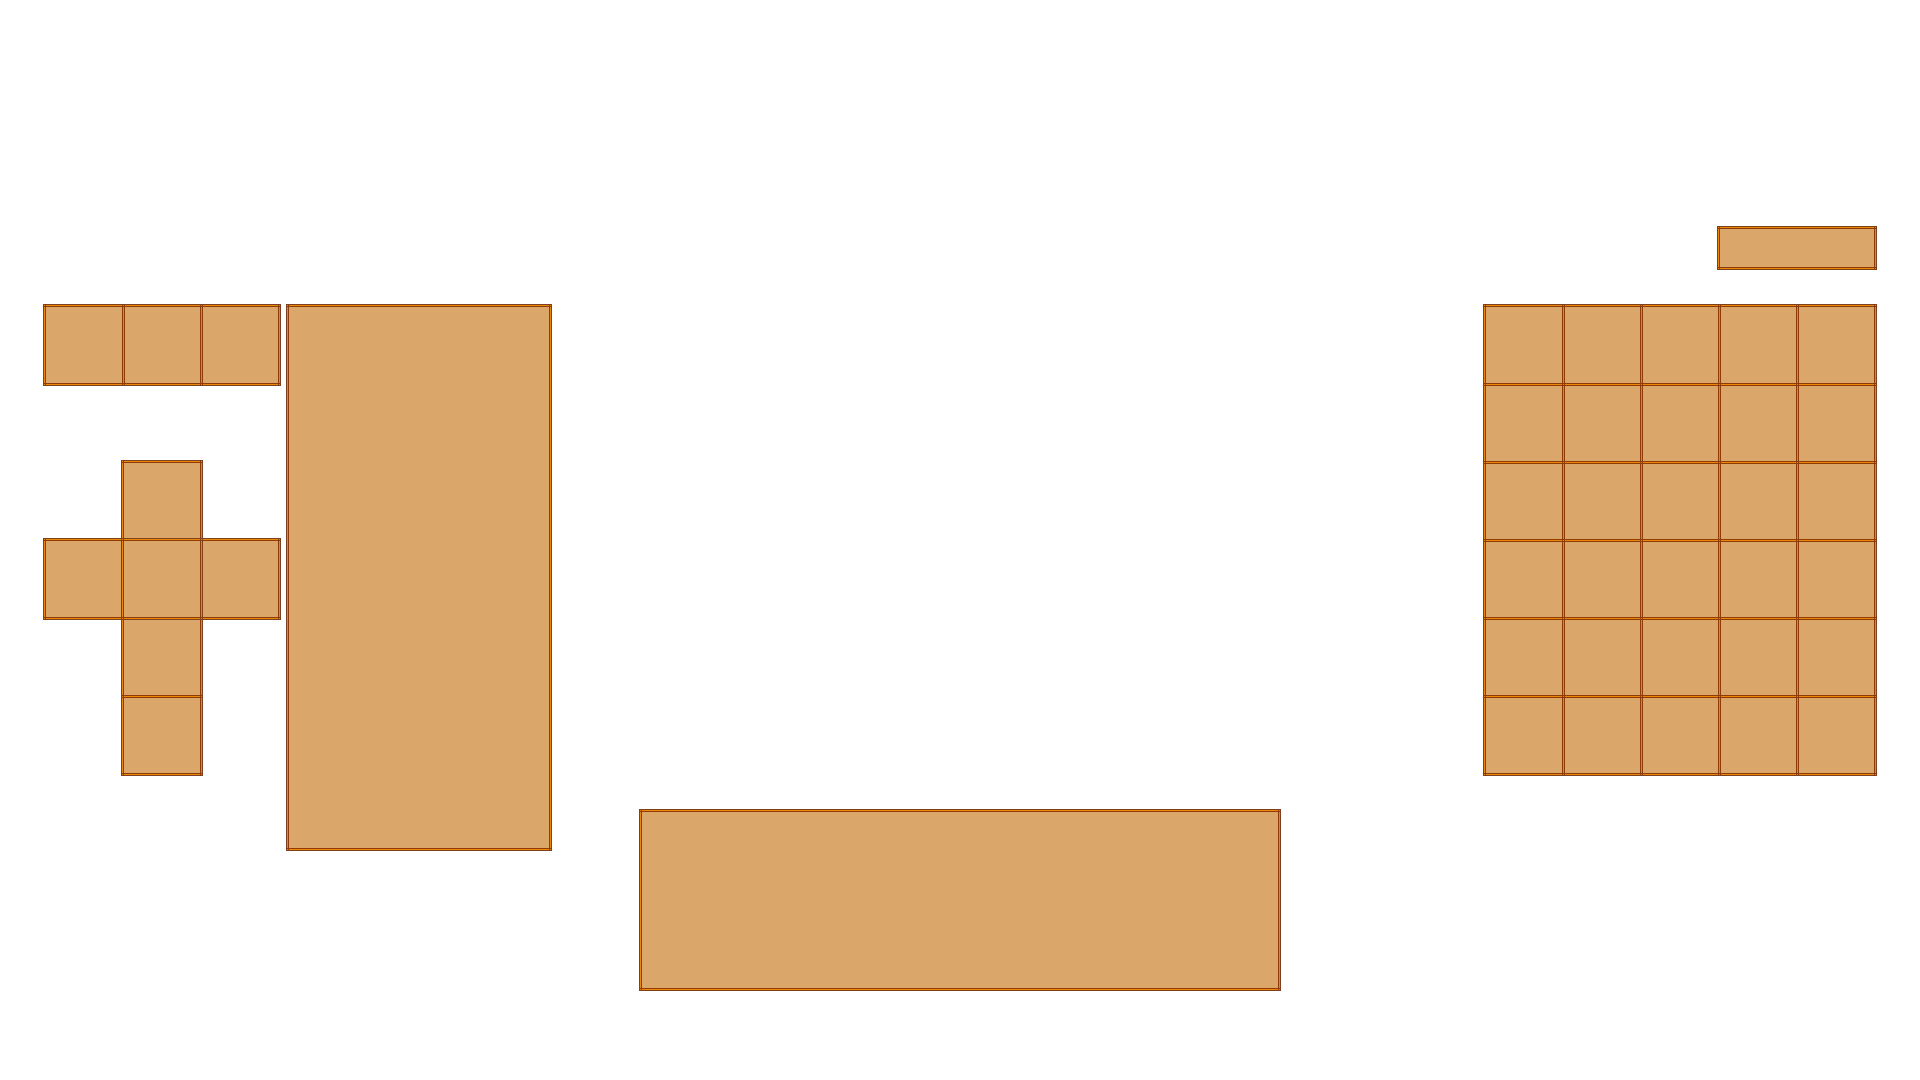
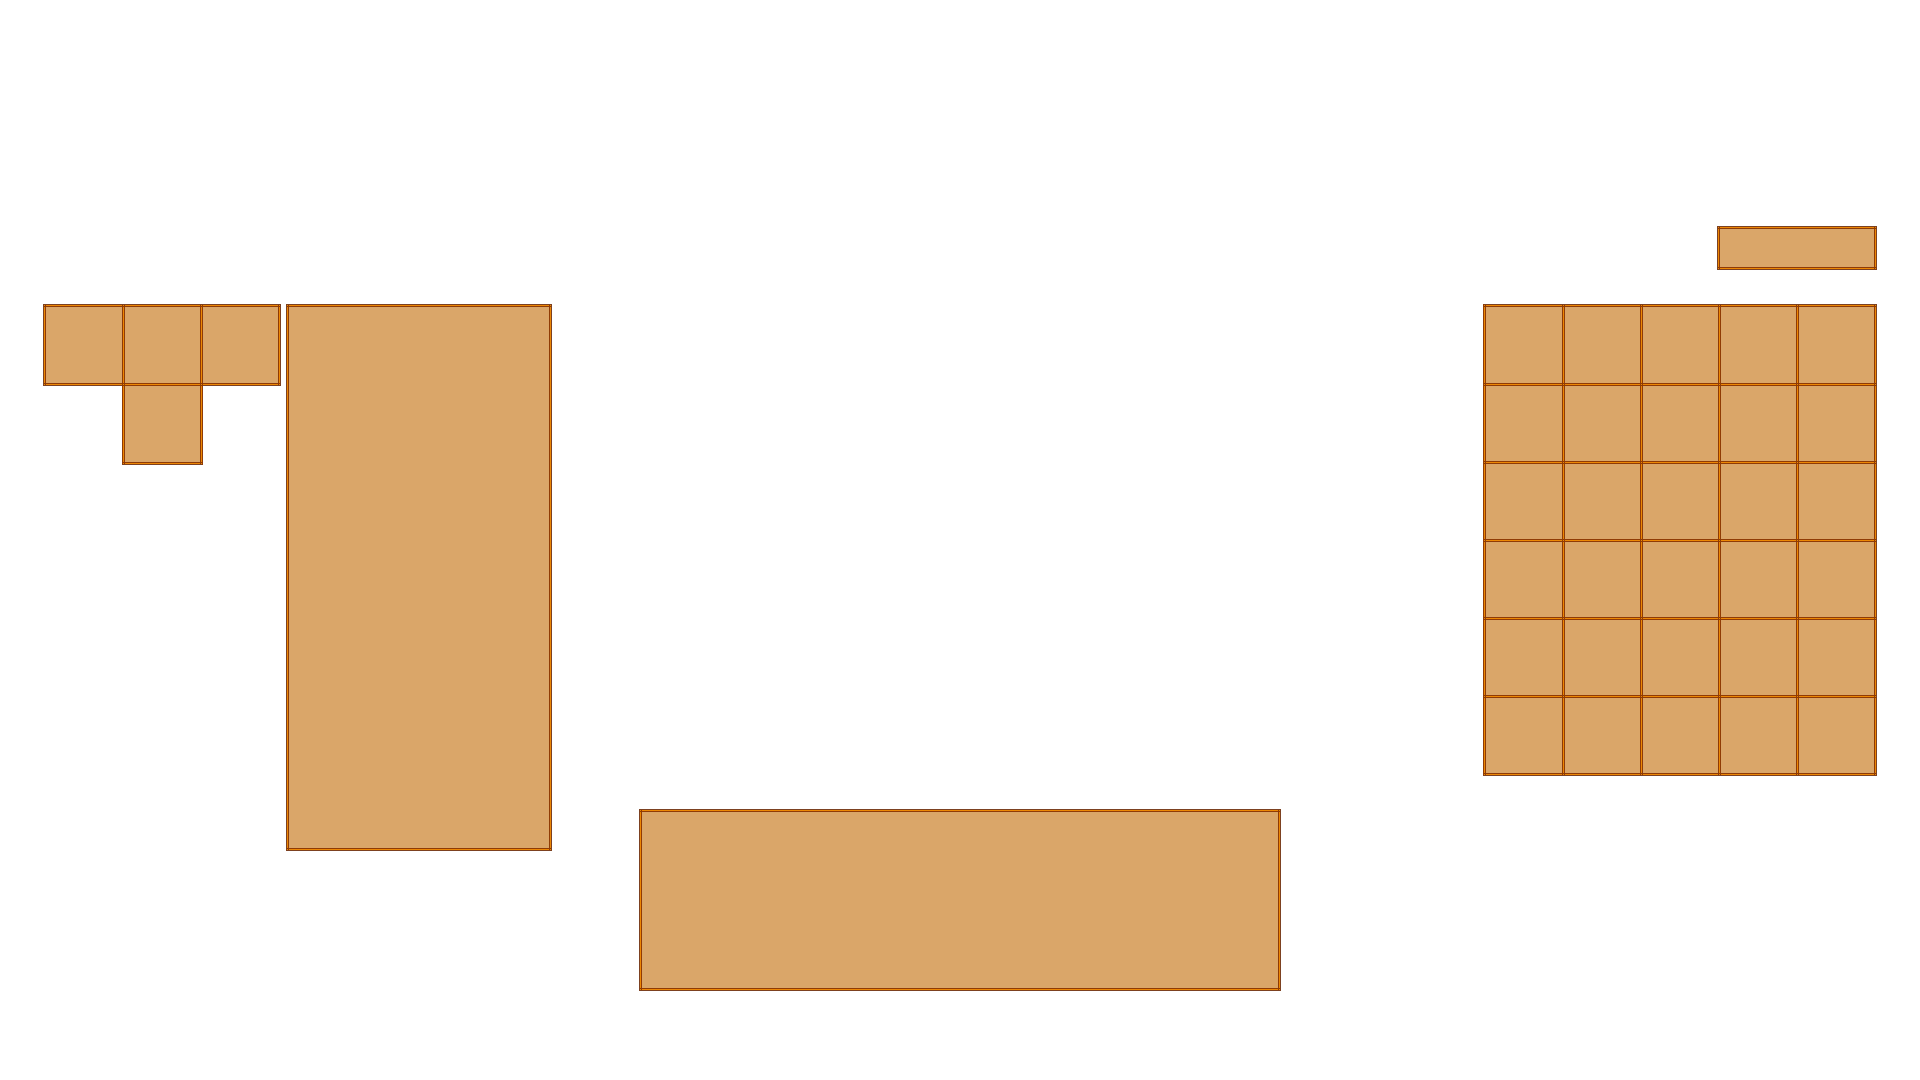
Updated inventory

Changed region(s): [[0.0, 0.3361, 0.1562, 0.7333]]

diff --git a/src/gui/InventoryWindow.java b/src/gui/InventoryWindow.java
@@ -451,28 +451,8 @@ public class InventoryWindow {
 						item.getItemType().getInventoryAnimation().draw(208, 313);
 					}
 					
-					if(item.getItemType().getItemCategory().equals("head")) {
-						item.getItemType().getInventoryAnimation().draw(130, 469);
-					}
-					
-					if(item.getItemType().getItemCategory().equals("chest")) {
-						item.getItemType().getInventoryAnimation().draw(130, 547);
-					}
-					
-					if(item.getItemType().getItemCategory().equals("hands")) {
-						item.getItemType().getInventoryAnimation().draw(52, 547);
-					}
-					
-					if(item.getItemType().getItemCategory().equals("hands")) {
-						item.getItemType().getInventoryAnimation().draw(208, 547);
-					}
-					
-					if(item.getItemType().getItemCategory().equals("legs")) {
-						item.getItemType().getInventoryAnimation().draw(130, 625);
-					}
-					
-					if(item.getItemType().getItemCategory().equals("feet")) {
-						item.getItemType().getInventoryAnimation().draw(130, 703);
+					if(item.getItemType().getItemCategory().equals("armor")) {
+						item.getItemType().getInventoryAnimation().draw(130, 391);
 					}
 				}
 			}
